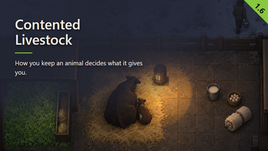
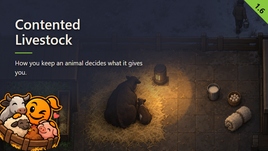
Preview now carries the cutout ModIcon, bottom-left, +15deg; gallery opens with 00-preview.png
Owner rule (2026-09-29): every gallery starts with a byte-identical copy of the Preview, and the
Preview itself is composited with the flood-filled ModIcon in a tilted corner. Cutout script
(Art/cutout-icon.cjs) and corner placement (Art/preview.html .icon) follow the ManyHappyReturns
reference implementation, adapted to this mod's own render-preview.cjs pipeline. Bottom-left chosen
over bottom-right: the scene's right side already holds the pail, eggs and wool.

Changed region(s): [[0.0, 0.6093, 0.2388, 1.0]]

diff --git a/Art/preview.html b/Art/preview.html
@@ -14,10 +14,12 @@ body { position: relative; font-family: "Segoe UI", system-ui, sans-serif; }
 .summary { width: 430px; font-size: 21px; font-weight: 400; line-height: 1.45; letter-spacing: 0; }
 .badge { position: absolute; right: 0; top: 0; width: 80px; height: 80px; background: var(--accent); clip-path: polygon(0 0,100% 0,100% 100%); }
 .version { position: absolute; left: 869px; top: 27px; transform: translate(-50%,-50%) rotate(45deg); font-size: 26px; font-weight: 700; line-height: 1; color: var(--badgeInk); }
+.icon { position: absolute; left: -20px; bottom: -20px; width: 240px; height: 240px; transform: rotate(15deg); filter: drop-shadow(0 6px 14px rgba(0,0,0,.55)); }
 </style></head><body>
 <div class="scene"></div><div class="veil"></div>
 <div class="plate"><h1 class="name">Contented<br>Livestock</h1><div class="rule"></div><p class="summary">How you keep an animal decides what it gives you.</p></div>
 <div class="badge"></div><span class="version"></span>
+<img class="icon" src="ModIcon-cutout.png" alt="">
 <script>
 window.previewReady = (async () => {
  const palette = await (await fetch('preview-palette.json')).json();

diff --git a/PUBLICATION.md b/PUBLICATION.md
@@ -17,8 +17,8 @@ sent, posted or tagged.
 | --- | --- |
 | Manual scenarios in `_tools/FUNCTIONAL-SCENARIOS.md` | 4 of 18 complete, 1 partial, 12 unplayed, 1 out of scope (14). Method and progress: `docs/MANUAL-REVIEW.md` |
 | Pickle passes against the current revision | `runtime-evidence` passed 17 of 24, `avec-rimmsqol` 6 of 6, `runtime-film` 1 of 1, 0 failed: every conditional scenario has run |
-| Presentation pictures | four accepted by the owner on 2026-09-25 and a fifth (Grass and Kibble bars side by side, labelled in English) on 2026-09-28, all in `Art/WorkshopScreenshots/`; the upload to the Steam page is manual |
-| Publication workflow | generated 2026-09-24 (`.github/`), 57 of 57 script tests pass; no dry-run has run, see section 6 |
+| Presentation pictures | six in `Art/WorkshopScreenshots/`: `00-preview.png` (owner rule, 2026-09-29, a byte-identical copy of `Mod/About/Preview.png`, itself now carrying the cutout ModIcon in the bottom-left corner, tilted +15deg), four JPEGs accepted 2026-09-25 and a fifth (Grass and Kibble bars) on 2026-09-28; the upload to the Steam page is manual |
+| Publication workflow | generated 2026-09-24 (`.github/`), 72 of 72 script tests pass; no dry-run has run, see section 6 |
 | Tag and GitHub release | created by the CI after a successful upload, never by hand |
 | Item tested by subscribing to it, then made public by hand | not done |
 
@@ -157,13 +157,27 @@ What opening them showed, 2026-09-24:
   interface), then the pictures were cropped at the owner's suggestion (2026-09-25): the right part carries nothing of
   the subject, and the crop puts the cow, its pane and its bar at a larger scale. Her remark for the gallery: **zoom on
   the subject**.
-- **Five pictures are final (owner: four on 2026-09-25, the fifth on 2026-09-28) and in `Art/WorkshopScreenshots/`**, JPEG, 1.2 MB in all (each
-  under 2 MB, the batch under 8 MB), cropped from the 1920 x 1080 captures, not to the 1280 x 800 of the first budget:
-  `01-cow-with-contentment-bar-and-tip.jpg` (left 1500 pixels, 1280 x 922), `02-well-kept-cow-after-two-hours.jpg`
-  (the cow and its pane, 1280 x 820), `03-badly-kept-cow-after-two-hours.jpg` (the same crop, 1280 x 818, to be read
-  as a pair with the second), `04-settings-page-with-contentment-bar.jpg` (left 1500 pixels, 1280 x 922) and `05-grass-and-kibble-cows-contentment-bars.jpg` (the two Needs panels after a simulated day, zoomed and side by side, labelled Grass and Kibble, 1350 x 715). The
-  owner found the cow of picture 3 a little far from the centre and the cow of picture 4 small, and accepted both.
-  The folder holds these images and nothing else. Uploading them to the Steam page is manual.
+- **Six pictures are final and in `Art/WorkshopScreenshots/`** (owner: four on 2026-09-25, the fifth on 2026-09-28,
+  `00-` on 2026-09-29), 1.9 MB in all (each under 2 MB, the batch under 8 MB):
+  `00-preview.png` (owner rule, 2026-09-29, numbering from zero: every gallery opens with a byte-identical copy of
+  `Mod/About/Preview.png`; a folder without one matching the current Preview is not a ready gallery, and `00-` is
+  recopied whenever the Preview is regenerated, or the two quietly drift), then the JPEGs, cropped from the
+  1920 x 1080 captures, not to the 1280 x 800 of the first budget: `01-cow-with-contentment-bar-and-tip.jpg` (left
+  1500 pixels, 1280 x 922), `02-well-kept-cow-after-two-hours.jpg` (the cow and its pane, 1280 x 820),
+  `03-badly-kept-cow-after-two-hours.jpg` (the same crop, 1280 x 818, to be read as a pair with the second),
+  `04-settings-page-with-contentment-bar.jpg` (left 1500 pixels, 1280 x 922) and
+  `05-grass-and-kibble-cows-contentment-bars.jpg` (the two Needs panels after a simulated day, zoomed and side by
+  side, labelled Grass and Kibble, 1350 x 715). The owner found the cow of picture 3 a little far from the centre
+  and the cow of picture 4 small, and accepted both. The folder holds these images and nothing else. Uploading
+  them to the Steam page is manual.
+- **The Preview itself now carries the cutout ModIcon** (owner rule, 2026-09-29): the icon, flood-filled from its
+  border so only the near-black background goes transparent (the mascot's own outline is never touched, since it
+  does not connect to the frame — `Art/cutout-icon.cjs`, source `Art/ModIcon-source.png`, output
+  `Art/ModIcon-cutout.png`), sits in the bottom-left corner (the emptiest part of this scene; the bottom-right
+  holds the pail, eggs and wool), tilted `+15deg`, 240 x 240, bleeding slightly off the left and bottom edges
+  (`Art/preview.html`'s `.icon`, composited by the existing `Art/render-preview.cjs`, which also regenerates
+  `00-preview.png`'s source — copy it again after any re-render). `cutout-icon.cjs` is a one-off, re-run by hand
+  only if the source icon changes; its output is committed. Reference: `ManyHappyReturns/Art/README.md`.
 
 ## 3. Dependencies and DLC
 
@@ -227,9 +241,10 @@ changes it (CI/CD session, 2026-09-24). Do not do these one by one:
    lait, de la laine ou des œufs ont du bien-être" (key `ContentedLivestock.Settings.ProducersOnly`; its tip does
    not change), already noted in `CHANGELOG.md`;
 2. `## Unreleased` in `CHANGELOG.md` renamed to `## [1.0.0] - <date>`, with a non-empty body;
-3. the four final pictures (done on 2026-09-25, see section 2), JPEG, at most 2 MB each and 8 MB the batch, committed in
-   `Art/WorkshopScreenshots/` and named `01-...`, `02-...`, in the upload order of section 2 (Virginie asked
-   for this, so the dry-run lists them as a reminder of the manual gallery upload; it sends nothing);
+3. the six final pictures (done, see section 2), `00-preview.png` then five JPEGs, at most 2 MB each and 8 MB
+   the batch, committed in `Art/WorkshopScreenshots/` and named `00-...`, `01-...`, `02-...`, in the upload order
+   of section 2 (Virginie asked for this, so the dry-run lists them as a reminder of the manual gallery upload;
+   it sends nothing) — check `00-preview.png` is still byte-identical to `Mod/About/Preview.png` first;
 4. the workflow regenerated with the **full** argument list below, never only the new option: a `--replace`
    with an argument missing changes the config, and a later one typed from memory without `--gallery-dir`
    silently drops `galleryDir`. Then run `node --test '.github/tests/*.test.mjs'` and check that
